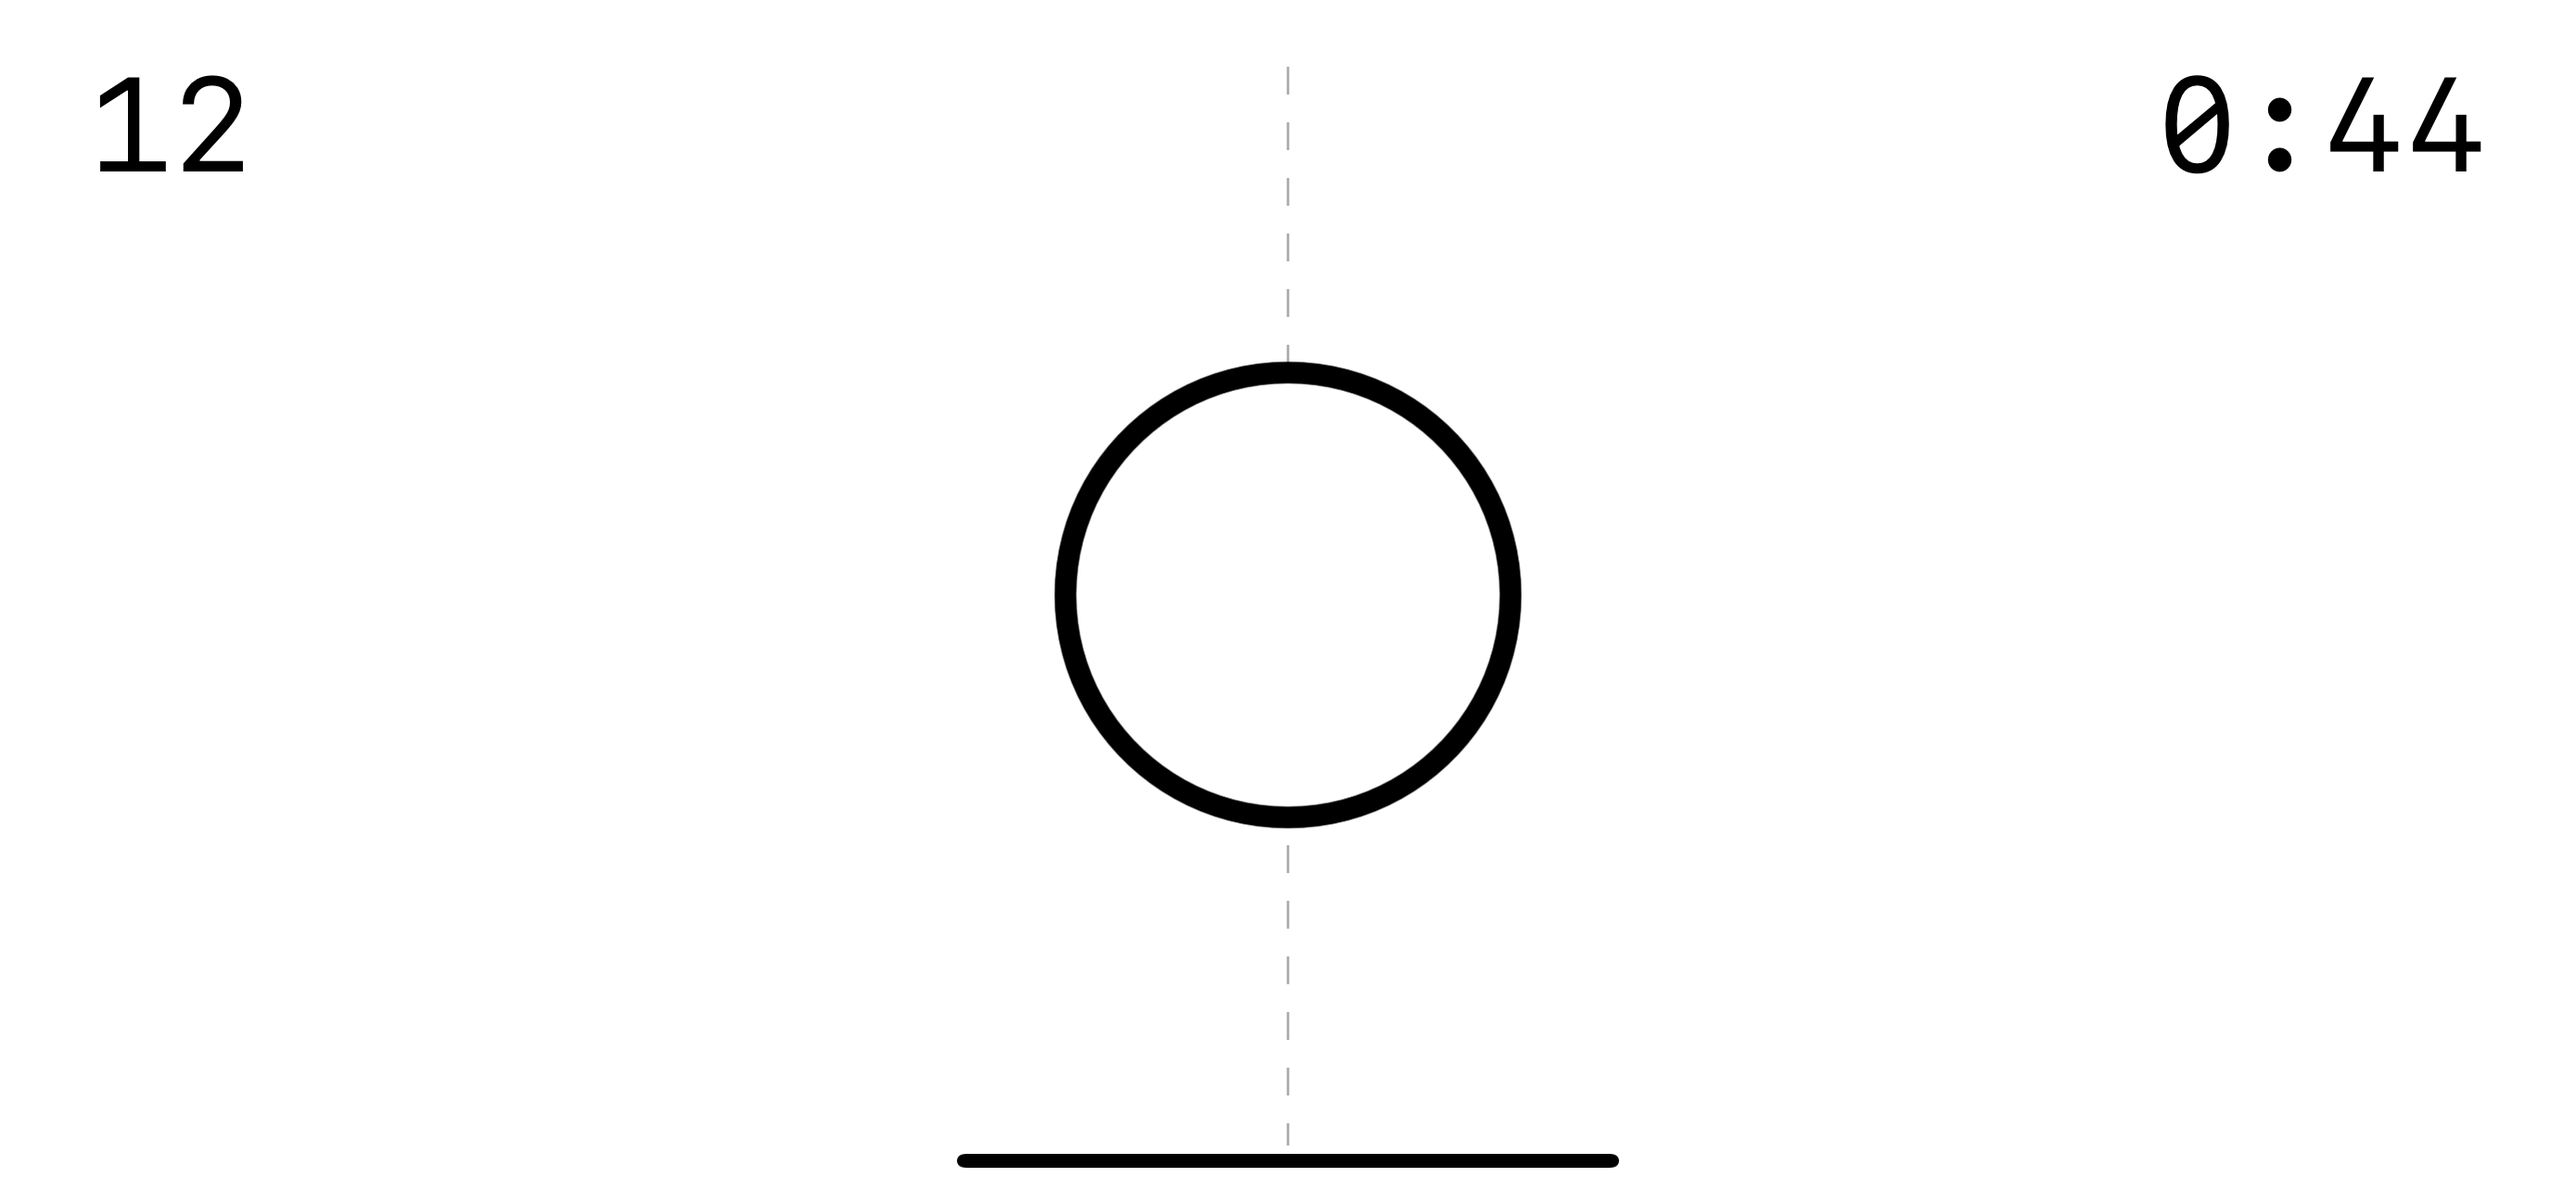
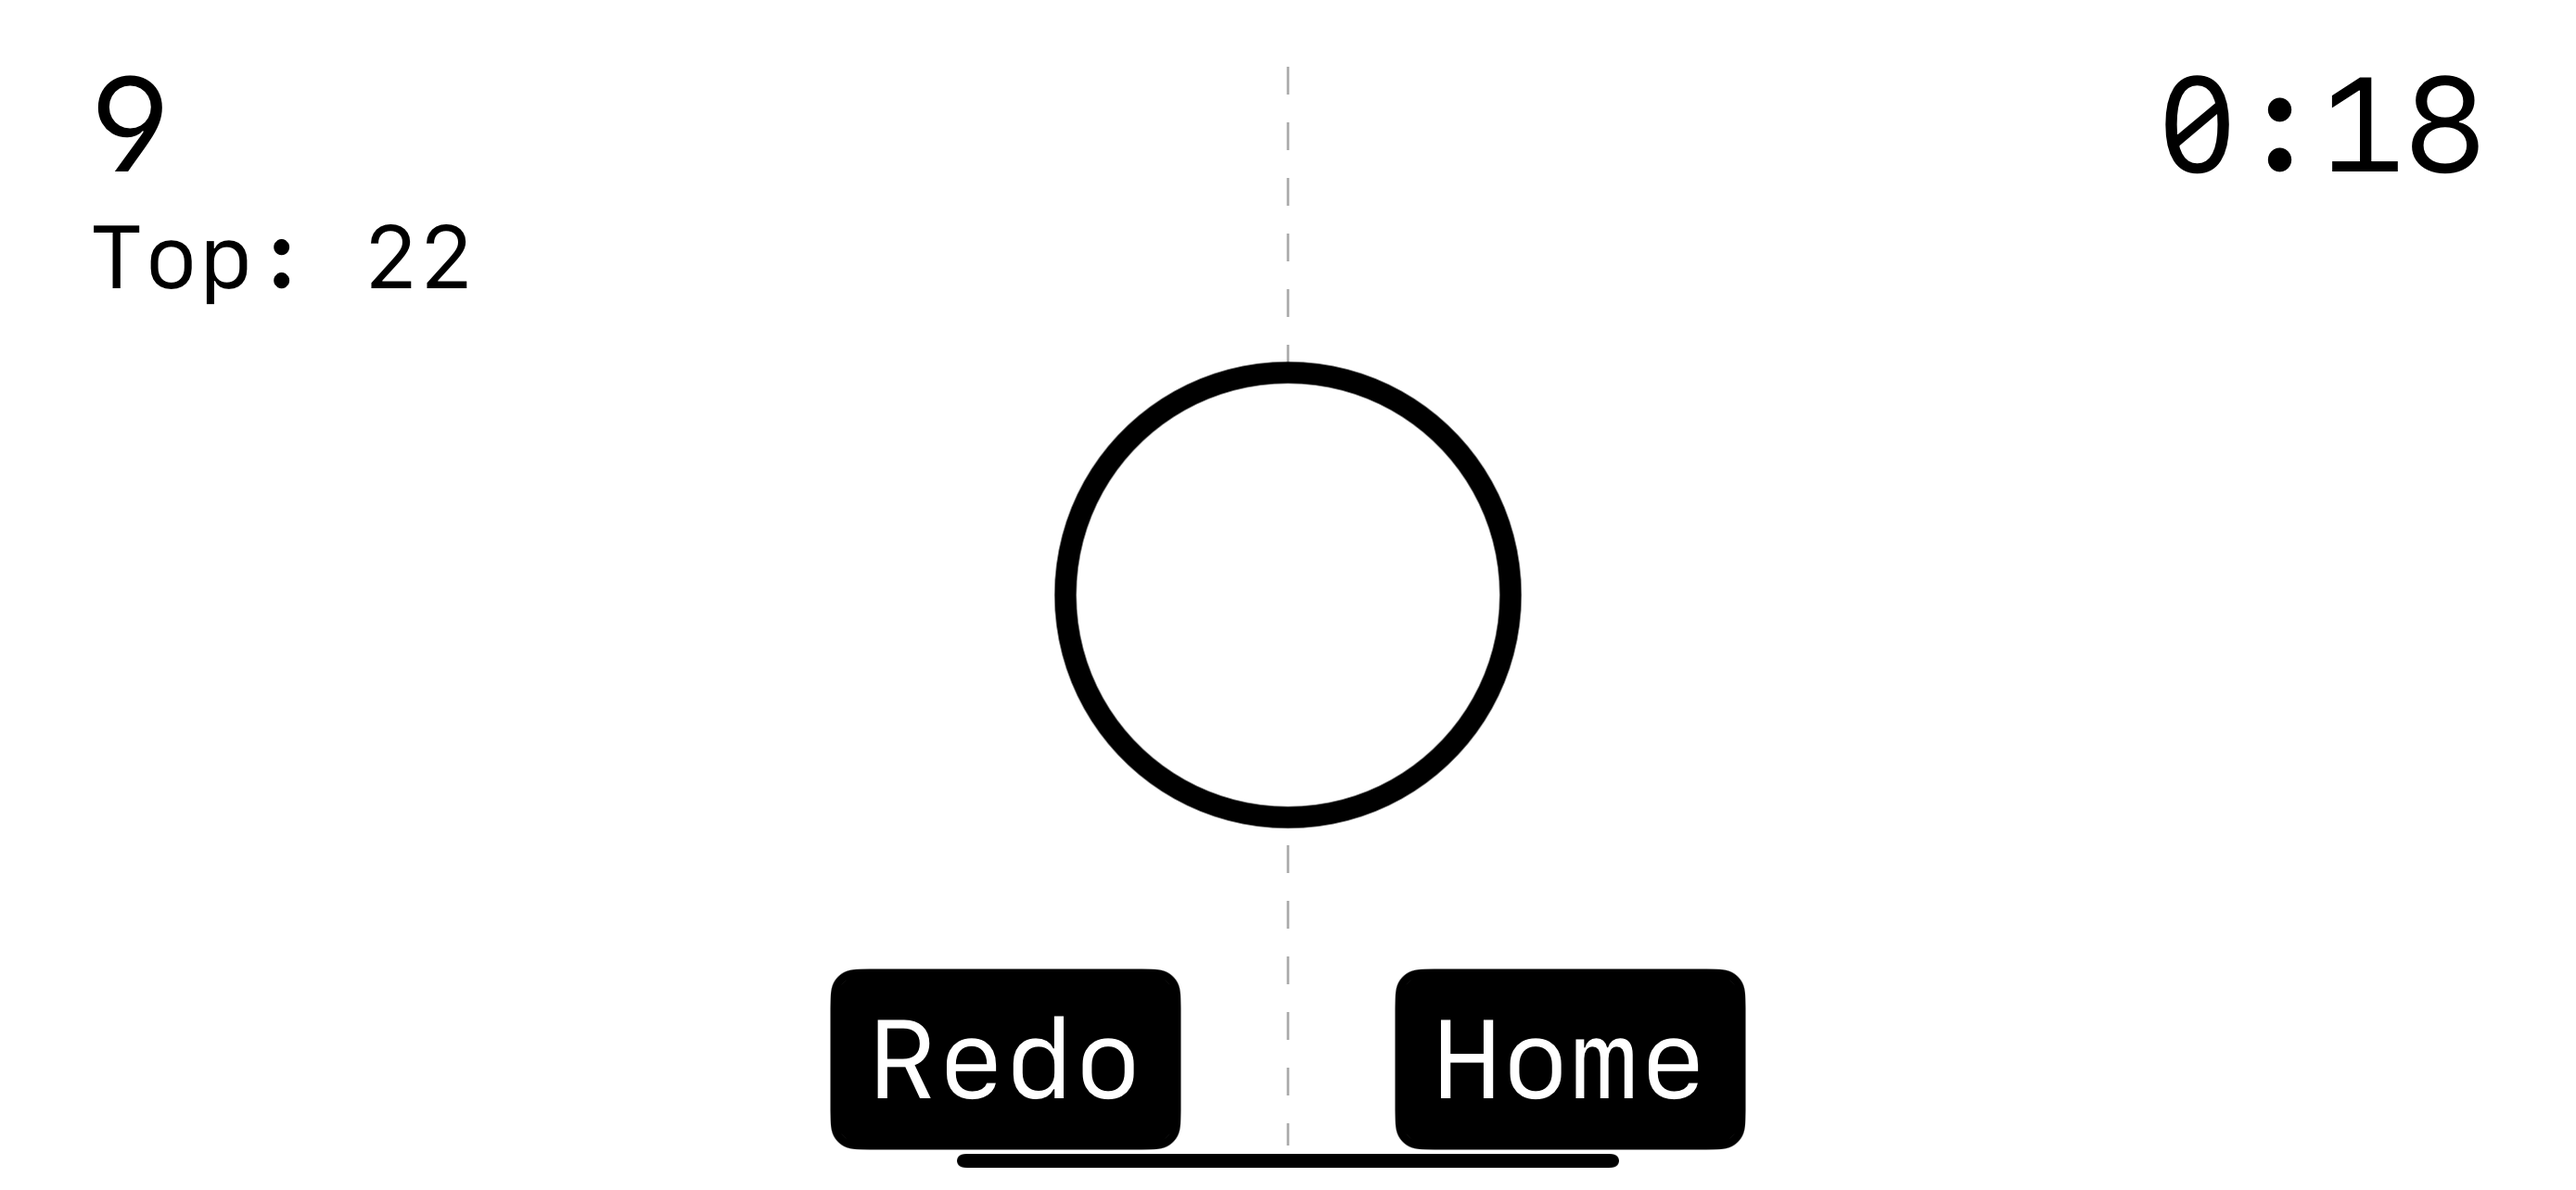
Remove Sokoban, add Shapes Game info + img alts

diff --git a/index.html b/index.html
@@ -71,7 +71,7 @@
           </p>
           <p class="text-2xl text-slate-500 font-light pt-4">
             I'm a student and developer with experience in React, Swift, and
-            React Native. I've built 4 apps for the App Store and
+            React Native. I've built 5 apps for the App Store and
             <a
               href="https://medium.com/@mary.paskhaver"
               class="text-sky-500 hover:text-sky-600 border-b-2"
@@ -96,7 +96,7 @@
 
         <div id="the-shapes-game">
           <p class="text-4xl font-medium">
-            The Shapes Game <span class="text-amber-500">(Coming soon!)</span>
+            The Shapes Game <span class="text-green-500">(NEW!)</span>
             <span
               class="md:inline-block hidden text-2xl text-slate-400 font-light"
               >/ Swift (SwiftUI, SpriteKit)</span
@@ -109,26 +109,38 @@
             Built a reaction time game
           </p>
           <ul class="pl-5 text-xl text-slate-500 font-light list-disc mt-1">
-            <li>Created unique memory and time test and a practice mode</li>
-            <li>Wrote unit tests, boosting code coverage by 16.5%</li>
+            <li>Created a unique timed memory test and a practice mode</li>
+            <li>Wrote unit tests, boosting code coverage by 6.9%</li>
           </ul>
 
-          <div
-            class="mt-8 mb-24 grid sm:grid-cols-1 md:grid-cols-2 lg:grid-cols-2 gap-12"
-          >
+          <div class="w-fit mx-auto my-8">
+            <a href="https://apps.apple.com/app/the-shapes-game/id6501962382">
+              <img
+                alt="Download The Shapes Game on the App Store button"
+                src="https://images.squarespace-cdn.com/content/v1/5cedd5e7c6e7df0001bbb67c/1564389803367-QIJ4CIDOV4JVO9X2YPYG/badge-apple.png"
+                class="w-64 h-20"
+              />
+            </a>
+          </div>
+
+          <div class="mb-24 grid sm:grid-cols-1 lg:grid-cols-2 gap-12">
             <img
+              alt="The Shapes Game practice mode screen with filled triangle"
               src="/public/shapes_game_demo_1.png"
               class="rounded-2xl shadow-2xl"
             />
             <img
+              alt="The Shapes Game practice mode screen with filled triangle"
               src="/public/shapes_game_demo_2.png"
               class="rounded-2xl shadow-2xl"
             />
             <img
+              alt="The Shapes Game practice mode screen with outlined circle, 12 points, and 44 seconds left"
               src="/public/shapes_game_demo_3.png"
               class="rounded-2xl shadow-2xl"
             />
             <img
+              alt="The Shapes Game practice mode screen with outlined triangle, 22 points, and 0 seconds left"
               src="/public/shapes_game_demo_4.png"
               class="rounded-2xl shadow-2xl"
             />
@@ -164,19 +176,31 @@
             </a>
           </div>
 
-          <div class="grid sm:grid-cols-1 md:grid-cols-2 lg:grid-cols-2 gap-12">
+          <div class="grid sm:grid-cols-1 lg:grid-cols-2 gap-12">
             <img
+              alt="A frog sits on the bottom of the screen near a pink candy. Snakes are moving from the right to the left side of the screen."
               src="/public/switchy_sides_demo_1.png"
               class="rounded-2xl shadow-2xl"
             />
             <img
+              alt="A screenshot from the game Swappy Sides. A bear flies toward a brown candy and near a coin near several snakes."
               src="/public/switchy_sides_demo_2.png"
+              class="rounded-2xl shadow-2xl"
+            />
+            <img
+              alt="A bunny flies toward a green candy and near a coin near several snakes."
+              src="/public/switchy_sides_demo_3.png"
+              class="rounded-2xl shadow-2xl"
+            />
+            <img
+              alt="The shop screen, featuring several characters the user can play as."
+              src="/public/switchy_sides_demo_4.png"
               class="rounded-2xl shadow-2xl"
             />
           </div>
         </div>
 
-        <div id="rumobile" class="mt-24">
+        <div id="rumobile" class="mt-24 mb-8">
           <div class="flex justify-between">
             <div>
               <p class="text-4xl font-medium">
@@ -240,82 +264,23 @@
 
           <div class="grid sm:grid-cols-1 md:grid-cols-2 lg:grid-cols-4 gap-12">
             <img
+              alt="RUMobile home screen"
               src="/public/rumobile_home.png"
               class="rounded-2xl shadow-2xl"
             />
             <img
+              alt="RUMobile food screen"
               src="/public/rumobile_food.png"
               class="rounded-2xl shadow-2xl"
             />
             <img
+              alt="RUMobile bus screen"
               src="/public/rumobile_bus.png"
               class="rounded-2xl shadow-2xl"
             />
             <img
+              alt="RUMobile schedule screen"
               src="/public/rumobile_schedule.png"
-              class="rounded-2xl shadow-2xl"
-            />
-          </div>
-        </div>
-
-        <div id="sokoban" class="mt-24">
-          <div class="flex justify-between">
-            <div>
-              <p class="text-4xl font-medium">
-                Sokoban: The Journey
-                <span
-                  class="md:inline-block hidden text-2xl text-slate-400 font-light"
-                  >/ Swift (UIKit, SpriteKit)</span
-                >
-              </p>
-              <p class="block md:hidden text-2xl text-slate-400 font-light">
-                Swift (UIKit, SpriteKit)
-              </p>
-              <p class="text-2xl text-black font-light mt-1">
-                Introduced a <span class="text-sky-500">twist</span> on the
-                original game by adding musical themes and lasers that obstruct
-                player movement
-              </p>
-              <ul class="pl-5 text-xl text-slate-500 font-light list-disc mt-1">
-                <li>
-                  Programmed a Sokoban puzzler with 24 themed levels, music, and
-                  characters
-                </li>
-                <li>
-                  Improved development quality by raising unit test coverage to
-                  85%
-                </li>
-              </ul>
-            </div>
-          </div>
-
-          <div class="w-fit mx-auto my-8">
-            <a
-              class="bg-sky-500 hover:bg-sky-600 py-2 px-3 rounded-xl text-2xl text-white"
-              href="https://github.com/marypaskhaver/Sokoban"
-            >
-              View on GitHub
-              <span class="pl-2"
-                ><i class="fab fa-github" aria-hidden="true"></i
-              ></span>
-            </a>
-          </div>
-
-          <div class="grid sm:grid-cols-1 md:grid-cols-2 lg:grid-cols-4 gap-12">
-            <img
-              src="/public/sokoban_skins.png"
-              class="rounded-2xl shadow-2xl"
-            />
-            <img
-              src="/public/sokoban_levels.png"
-              class="rounded-2xl shadow-2xl"
-            />
-            <img
-              src="/public/sokoban_level3.png"
-              class="rounded-2xl shadow-2xl"
-            />
-            <img
-              src="/public/sokoban_level3done.png"
               class="rounded-2xl shadow-2xl"
             />
           </div>

diff --git a/dist/output.css b/dist/output.css
@@ -2032,10 +2032,6 @@ video {
   padding-bottom: 0.75rem;
 }
 
-.pl-2 {
-  padding-left: 0.5rem;
-}
-
 .pl-5 {
   padding-left: 1.25rem;
 }
@@ -2230,11 +2226,6 @@ video {
 
 .text-\[\#336699\]\/\[\.35\] {
   color: rgb(51 102 153 / .35);
-}
-
-.text-amber-500 {
-  --tw-text-opacity: 1;
-  color: rgb(245 158 11 / var(--tw-text-opacity));
 }
 
 .text-black {
@@ -2689,6 +2680,10 @@ video {
     grid-template-columns: repeat(1, minmax(0, 1fr));
   }
 
+  .sm\:text-center {
+    text-align: center;
+  }
+
   .sm\:underline {
     text-decoration-line: underline;
   }
@@ -2705,6 +2700,10 @@ video {
 
   .md\:grid-cols-2 {
     grid-template-columns: repeat(2, minmax(0, 1fr));
+  }
+
+  .md\:text-left {
+    text-align: left;
   }
 }
 
